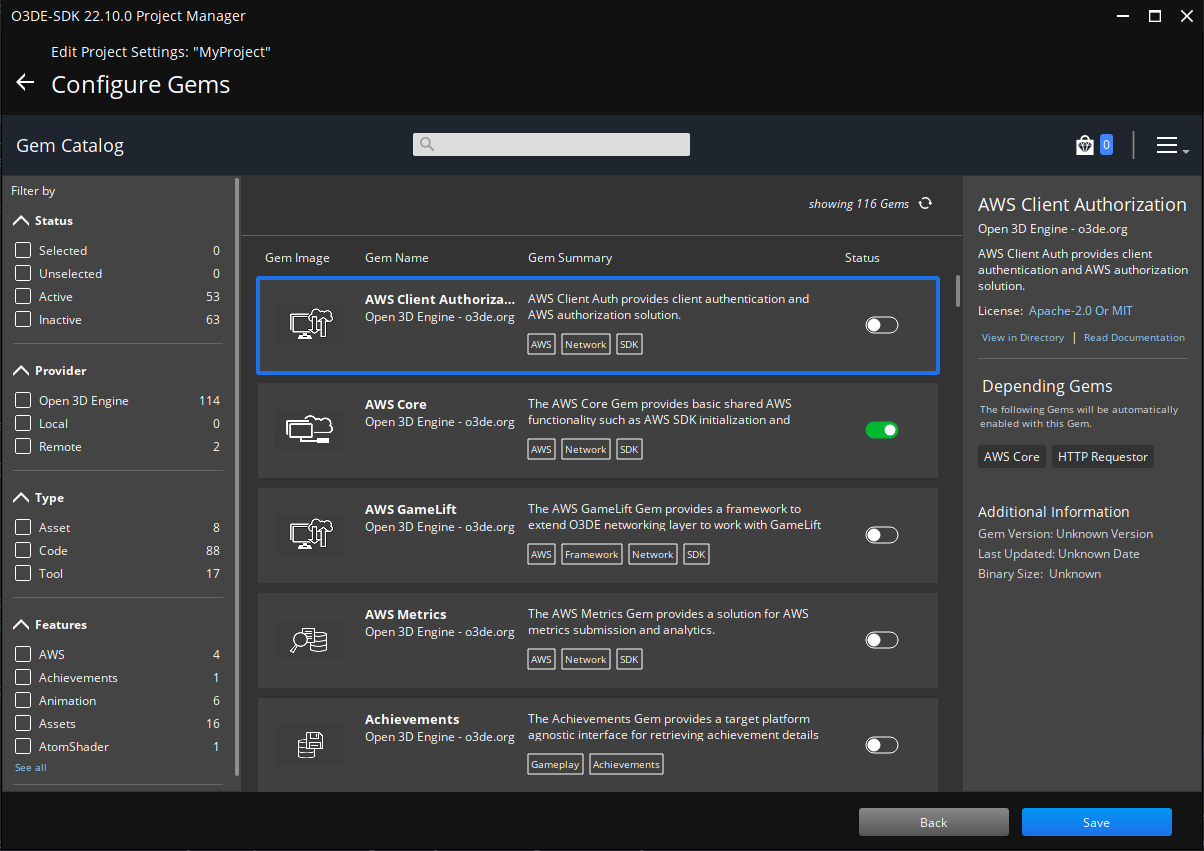
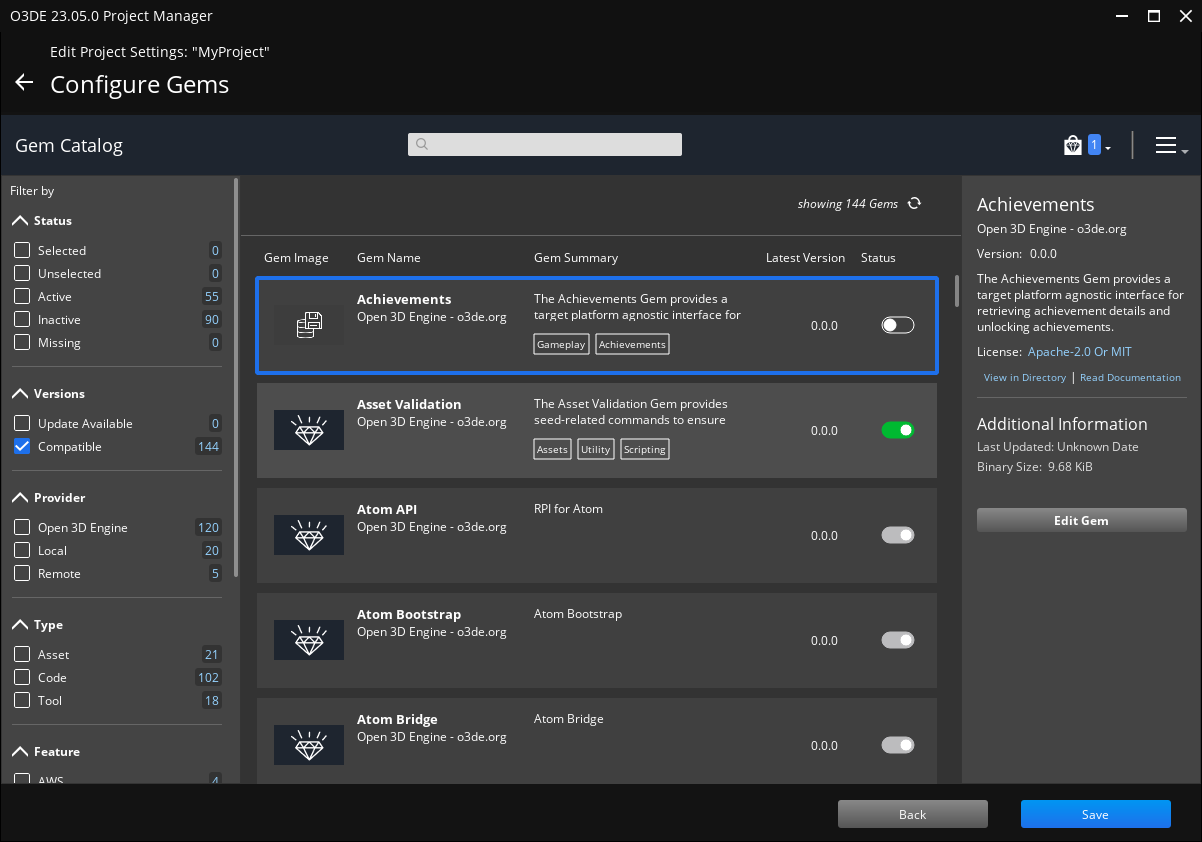
add gem version doc to enable gems docs

diff --git a/content/docs/user-guide/project-config/add-remove-gems.md b/content/docs/user-guide/project-config/add-remove-gems.md
@@ -20,6 +20,8 @@ The basic steps to configure Gems for your project are as follows:
 
 1. Enable or disable the Gem.
 
+1. (Optional) Selecting a Gem version.
+
 1. Save changes.
 
 1. Rebuild your project (if necessary).
@@ -30,13 +32,9 @@ The basic steps to configure Gems for your project are as follows:
 
 1. Launch **Project Manager**, which can be found on your desktop or in `bin/Windows/profile/Default/o3de.exe` if you installed O3DE, or in your engine build directory if you built O3DE from source.
 
-1. Open the menu for a project and select the **Edit Project Settings...** button.
+1. Open the menu for a project and select the **Configure Gems...** button.
 
     ![For a project, go to the menu and select 'Edit Project Settings'. ](/images/user-guide/project-config/add-remove-gems/quick-start-1.png)
-
-1. Select the **Configure Gems** button.
-
-    ![Select the 'Configure Gems' button to open the Configure Gems screen.](/images/user-guide/project-config/add-remove-gems/quick-start-2.png)
 
 1. In the **Configure Gems** screen, you can filter or search for available Gems. Scroll through the resulting list to find the Gem you want to enable or disable for your project.
 
@@ -54,7 +52,8 @@ You can filter by the following groups:
 | Criteria | Description |
 | - | - |
 | Status | Displays Gems that are already either selected or unselected for your project.  |
-| Provider | Displays Gems based on their provider. `Open 3D Engine` displays Gems that are built with O3DE source. `Local` displays Gems that are provided by other sources. |
+| Versions | Displays Gems that are compatible with your project or have version updates.  |
+| Provider | Displays Gems based on their provider. `Open 3D Engine` displays Gems that are built with O3DE source. `Local` displays local Gems that are provided by other sources. `Remote` displays Gems that are provided by remote sources. |
 | Type | Displays Gems based on the type of Gem. `Asset` displays Gems that add assets to your project. `Code` displays Gems that extend functionality in your project. `Tool` displays Gems that provide a tool you can use in O3DE. |
 | Supported Platforms | Displays Gems based on the platforms that support it. |
 | Features | Displays Gems based on its provided features. |
@@ -77,6 +76,10 @@ Select a Gem to view its description, other Gems it depends on or conflicts with
 
 ![View Gem details](/images/user-guide/project-config/add-remove-gems/ui-gem-details.png)
 
+When an update is availble for an active gem a yellow notification icon will appear in the gem row next to the gem version.
+
+![Gem update available](/images/user-guide/project-config/add-remove-gems/ui-gem-update-available.png)
+
 ### Enabling or disabling Gems
 
 Enable or disable Gems in your project by toggling the switch under the **Selected** column for a given Gem.
@@ -87,9 +90,19 @@ You can enable or disable multiple Gems at once. The changes that will be made t
 
 ![Gems to enable or disable during Gem configuration.](/images/user-guide/project-config/add-remove-gems/ui-gem-changes.png)
 
+### Selecting a Gem version
+
+If multiple versions of a Gem are available, a drop-down box will be visible in the Gem details panel showing available versions.  Select a version to see the details about it.  
+
+![Gem version details.](/images/user-guide/project-config/add-remove-gems/ui-gem-version-details.png)
+
+When you activate the gem, the selected version will be used.  If the Gem is already active, a `Use Version` button will appear in the Gem details panel when the Gem version is changed.
+
+![Use Gem version button.](/images/user-guide/project-config/add-remove-gems/ui-use-version-button.png)
+
 ### Saving and rebuilding
 
-1. Select the **Save** button when you are finished adding and removing Gems from your project.
+1. Select the **Save** button when you are finished adding and removing Gems from your project.  If any compatibility issue are found with the added gems, a popup will appear with information and ask if you want to continue adding those gems or cancel.
 
 1. Asset-only Gems do not typically require a rebuild of your project, however Gems that include code do. When you save changes to your project configuration, a warning message will appear if you need to rebuild.
 
@@ -119,10 +132,10 @@ You can also configure Gems using the CLI. Refer to [CLI Reference](/docs/user-g
     scripts/o3de disable-gem -gp <gem-path> -pp <project-path>
     ```
 
-    There are several variations of these commands that you can use to specify either the name or the path of the Gem and project.
+    There are several variations of these commands that you can use to specify either the name with optional version specifier or the path of the Gem and project.
     - `-gp`, `--gem-path`: Path to the Gem folder (can be absolute or relative).
-    - `-gn`, `--gem-name`: Name of the Gem, which can be found in the Gem's `gem.json` configuration file. 
+    - `-gn`, `--gem-name`: Name of the Gem with optional version specifier, which can be found in the Gem's `gem.json` configuration file: i.e. `--gem-name Atom>=1.0.0`. Refer to the [Gem Versioning](/docs/user-guide/gems/gem-versioning) section for more information about Gem version specifiers.
     - `-pp`, `--project-path`: Path to the project folder (can be absolute or relative).
-    - `-pn`, `--project-name`: Name of the project, which can be found in the project's `project.json` configuration file.
+    - `-pn`, `--project-name`: Name of the project with optional version specifier, which can be found in the project's `project.json` configuration file.
 
 1. Rebuild your project. Refer to the [Build](/docs/user-guide/build) section for more information about building your project from the command line.
